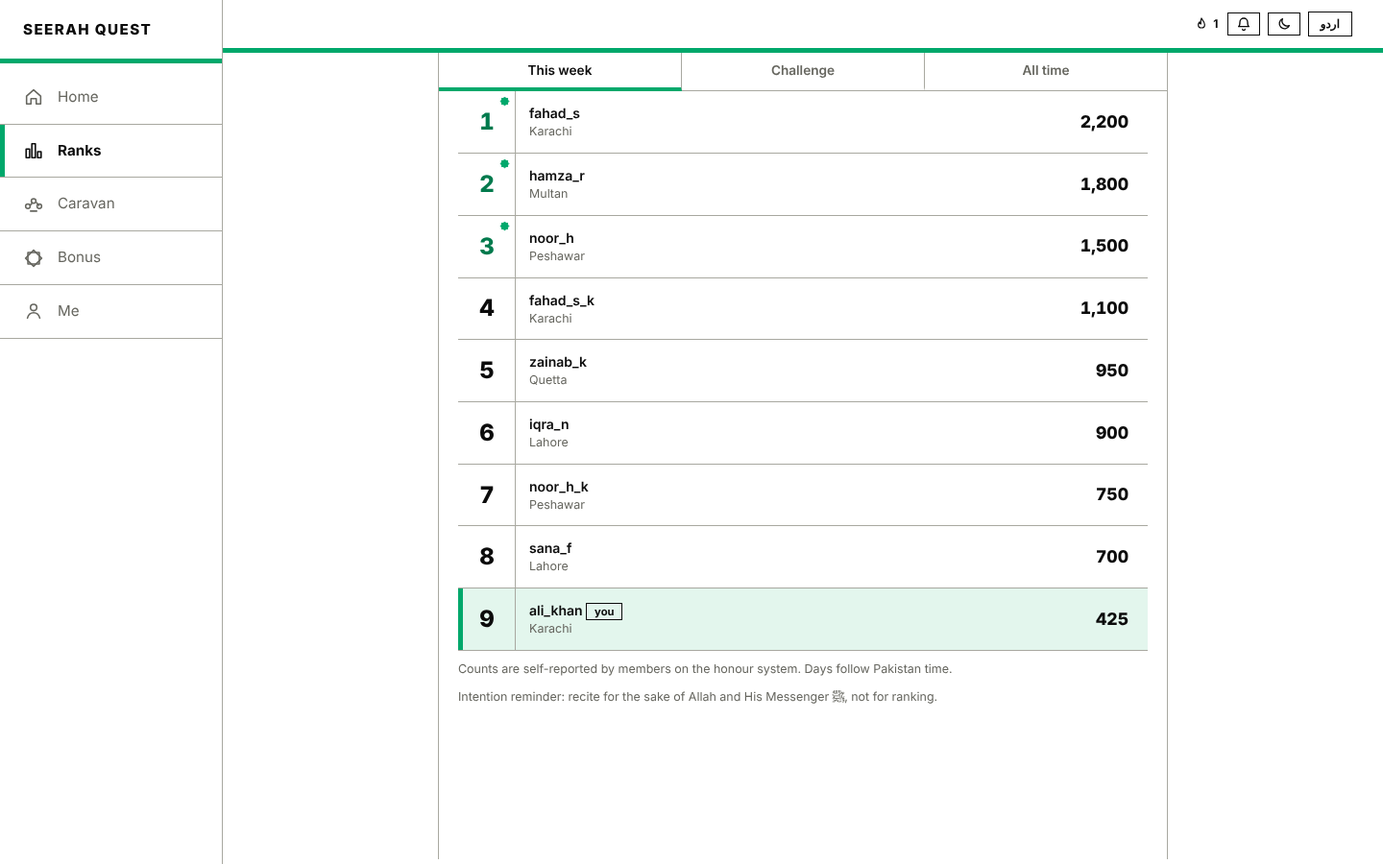
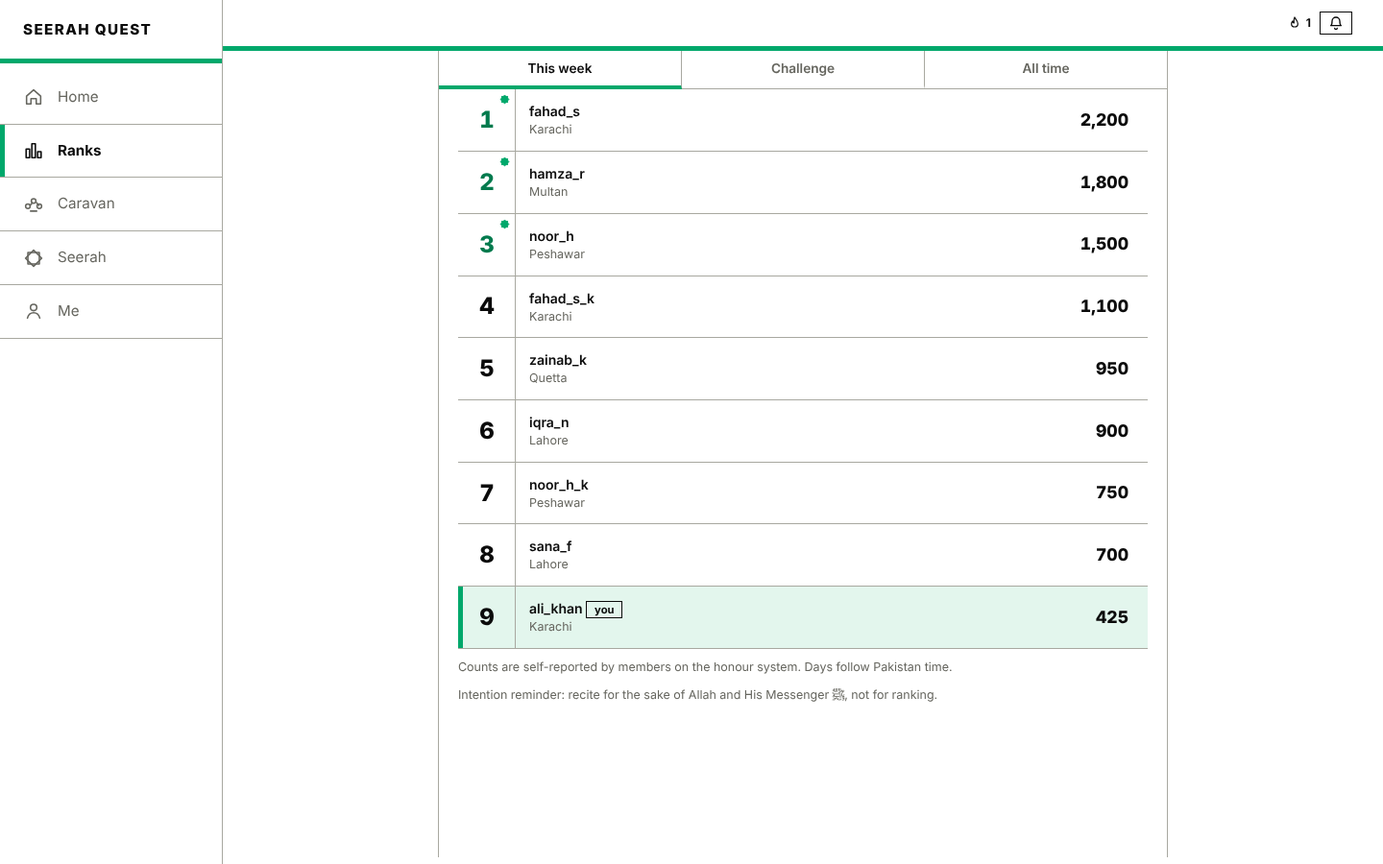
Move language and display toggles to Me; rename Bonus to Seerah; remove design-note wording; fix held-total message
Claude-Session: https://claude.ai/code/session_01UAFZ7UWiNCAUECCSEMQZ74

diff --git a/public/i18n.js b/public/i18n.js
@@ -47,23 +47,24 @@ export const I18N = {
     skip: 'Skip', next: 'Next', start: 'Get started',
     intro1_title: 'Choose your language', intro1_text: 'Seerah Quest helps us send durood on the Prophet ﷺ every day, and grow closer to him through Seerah and Sunnah.',
     intro2_title: 'How counting works', intro2_text: 'After you recite, type the total and press Add. Your number is exact and stays on the record. You can correct today’s and yesterday’s entries from the Me tab.',
-    intro3_title: 'How caravans work', intro3_text: 'Invite people with your code. Everyone you bring, and everyone they bring, becomes your caravan, and you share its milestones. There is no money in Seerah Quest: nothing to pay and nothing to earn but reward and blessing.',
+    intro3_title: 'How caravans work', intro3_text: 'Invite people with your code. Everyone you bring, and everyone they bring, becomes your caravan, and you share its milestones. Seerah Quest is free and never asks you for money.',
     news_title: 'News', news_empty: 'No news yet.',
     push_card_title: 'Daily reminder', push_card_text: 'You have kept a streak going. Want a gentle reminder each day so you do not miss it?', push_enable: 'Turn on reminders', push_later: 'Not now', push_disable: 'Turn off reminders',
     reminder_time: 'Daily reminder time', reminder_hint: 'Pakistan time. Leave empty for no daily reminder. Needs reminders turned on for this device.',
     push_on: 'Reminders are on for this device.', push_off: 'Reminders are off for this device.', push_denied: 'Notifications are blocked in your browser settings.', push_unsupported: 'This browser cannot show reminders. Installing the app on Android usually fixes this.',
     photo_gone: 'The photo was deleted after review, as promised.', logout_all: 'Log out of all devices', logout_all_ask: 'Sign out everywhere else? This device stays signed in.', logout_all_done: 'Signed out of every other device.',
+    appearance: 'Language and display', display: 'Display', mode_light: 'White', mode_dark_name: 'Dark',
     take_photo: 'Take or choose a photo', photo_preview: 'Is this the photo you want to post?', post_it: 'Post for verification', cancel: 'Cancel', posting: 'Posting…',
     photo_rules: 'Photograph the sunnah itself. Please do not show faces, women, children or any personal details. Photos are stripped of location data. Each photo can be used once.',
     post_how: (n) => `Your photo is verified when ${n} different members confirm it. A verified photo earns you more than the tick alone, and reviewers who agree with the final result earn a little too.`,
     your_post: 'Your post today', st_pending: 'Waiting for reviews', st_verified: 'Verified ✓', st_rejected: 'Not verified', st_expired: 'Expired without enough reviews', st_removed: 'Hidden for review',
-    review_title: 'Verify others', review_hint: 'Does the photo genuinely show today’s sunnah being done? Review honestly: you are paid only if your review matches the final result. Votes and names are hidden.',
+    review_title: 'Verify others', review_hint: 'Does the photo genuinely show today’s sunnah being done? Review honestly: you earn points only if your review matches the final result. Votes and names are hidden.',
     confirm: '✓ Yes, it does', reject: '✗ Doesn’t look right', report_btn: '🚩 Report', report_ask: 'Report this photo as inappropriate?',
-    no_feed: 'Nothing to review right now. Thank you!', voted: 'Thank you for reviewing', reviewed_paid: 'Review matched. Points earned', reviewed_pending: 'Recorded. You earn XP if the final result matches your review.',
+    no_feed: 'Nothing to review right now. Thank you!', voted: 'Thank you for reviewing', reviewed_paid: 'Review matched. Points earned', reviewed_pending: 'Recorded. You earn points if the final result matches your review.',
     reported: 'Reported. Thank you.', history: 'My sunnah posts', reviews_done: 'Reviews', sunnahs_verified: 'Sunnahs verified', confirms_so_far: 'confirmations',
     q_sunnah: 'Post today’s sunnah', q_review: 'Review 3 sunnah photos',
-    mode_dark: 'Switch to dark', mode_white: 'Switch to white', goal_word: 'Goal', nav_bonus: 'Bonus', durood_quests: 'Durood quests', bonus_quests: 'Bonus quests', bonus_hint: 'Small extras: today’s sunnah and seerah. Durood always comes first.', see_bonus: 'Open bonus',
-    seerah_heading: 'Seerah', sunnah_heading: 'Sunnah quest', q_weekgoal: 'Reach your goal on all 7 days (weekly total)',
+    mode_dark: 'Switch to dark', mode_white: 'Switch to white', goal_word: 'Goal', nav_bonus: 'Seerah', durood_quests: 'Durood quests', bonus_quests: 'Sunnah and Seerah', bonus_hint: 'Today’s sunnah, the weekly class, Seerah circles and lectures.', see_bonus: 'Open',
+    seerah_heading: 'Seerah', sunnah_heading: 'Sunnah', q_weekgoal: 'Reach your goal on all 7 days (weekly total)',
     invite_code: 'Invite code', invite_hint: 'Required. Use the code of the person who invited you (their username) or a founders code.', invite_ok: 'Code accepted',
     no_code: 'No code?', request_access: 'Request access', waitlist_text: 'Tell us who you are. An organiser will review your request and send you an invite code.',
     name: 'Your name', send_request: 'Send request', wait_done: 'Thank you. We will contact you on the phone number you gave, and by email if you added one.', back_login: 'Back to log in',
@@ -72,7 +73,7 @@ export const I18N = {
     reset_title: 'Choose a new password', new_password: 'New password', reset_done: 'Password changed. You are signed in.', email_confirmed: 'Email confirmed. Thank you.',
     email_unconfirmed: 'Your email is not confirmed yet. We need a working email to reset your password.', resend: 'Send link again', email_sent: 'Link sent', email_ok: 'confirmed',
     hist_title: 'History', hist_hint: 'You can change today’s and yesterday’s entries. Every change stays on record.', yesterday: 'Yesterday', edit: 'Edit', edited: 'edited', was: 'was', hist_empty: 'No entries yet.',
-    flagged: 'Your recent total is being reviewed, so you are hidden from public ranks for now. Your durood still counts everywhere. An organiser will check it soon.',
+    flagged: 'Your recent total is being checked by an organiser. It stays on your record and is added to the public numbers once it is confirmed. Until then you are hidden from the ranks.',
     invites_left: 'Invites left', invites_next: (d) => `You get 10 more for each 7-day streak. Next at a ${d}-day streak.`,
     delete_title: 'Delete account', delete_text: 'Your name, phone number and email are erased. The durood you reported stays in the totals, without your name. This cannot be undone.',
     delete_btn: 'Delete my account', delete_confirm: 'Delete your account for good?', deleted: 'Account deleted', privacy: 'Privacy notice',
@@ -156,23 +157,24 @@ export const I18N = {
     skip: 'چھوڑیں', next: 'آگے', start: 'شروع کریں',
     intro1_title: 'اپنی زبان چنیں', intro1_text: 'سیرت کوئسٹ ہمیں روزانہ نبی ﷺ پر درود بھیجنے اور سیرت و سنت کے ذریعے آپ ﷺ کے قریب ہونے میں مدد دیتا ہے۔',
     intro2_title: 'گنتی کیسے ہوتی ہے', intro2_text: 'درود پڑھ کر کل تعداد لکھیں اور شامل کریں دبائیں۔ آپ کا عدد درست رہتا ہے اور ریکارڈ میں رہتا ہے۔ آج اور کل کے اندراجات “میں” ٹیب سے درست کر سکتے ہیں۔',
-    intro3_title: 'قافلہ کیسے بنتا ہے', intro3_text: 'اپنے کوڈ سے لوگوں کو بلائیں۔ جسے بھی آپ بلائیں اور وہ جسے بلائیں، سب آپ کا قافلہ بنتا ہے اور آپ اس کے سنگِ میل میں شریک ہوتے ہیں۔ سیرت کوئسٹ میں پیسوں کا کوئی لین دین نہیں: نہ ادائیگی، نہ کمائی، صرف اجر اور برکت۔',
+    intro3_title: 'قافلہ کیسے بنتا ہے', intro3_text: 'اپنے کوڈ سے لوگوں کو بلائیں۔ جسے بھی آپ بلائیں اور وہ جسے بلائیں، سب آپ کا قافلہ بنتا ہے اور آپ اس کے سنگِ میل میں شریک ہوتے ہیں۔ سیرت کوئسٹ مفت ہے اور کبھی آپ سے پیسے نہیں مانگتی۔',
     news_title: 'خبریں', news_empty: 'ابھی کوئی خبر نہیں۔',
     push_card_title: 'روزانہ یاد دہانی', push_card_text: 'آپ نے سلسلہ قائم رکھا ہے۔ کیا ہر روز نرمی سے یاد دہانی چاہیں گے تاکہ ناغہ نہ ہو؟', push_enable: 'یاد دہانی چالو کریں', push_later: 'ابھی نہیں', push_disable: 'یاد دہانی بند کریں',
     reminder_time: 'روزانہ یاد دہانی کا وقت', reminder_hint: 'پاکستانی وقت۔ خالی چھوڑیں تو روزانہ یاد دہانی نہیں آئے گی۔ اس کے لیے اس ڈیوائس پر یاد دہانی چالو ہونی چاہیے۔',
     push_on: 'اس ڈیوائس پر یاد دہانی چالو ہے۔', push_off: 'اس ڈیوائس پر یاد دہانی بند ہے۔', push_denied: 'براؤزر کی سیٹنگز میں اطلاعات بلاک ہیں۔', push_unsupported: 'یہ براؤزر یاد دہانی نہیں دکھا سکتا۔ اینڈرائیڈ پر ایپ انسٹال کرنے سے عموماً مسئلہ حل ہو جاتا ہے۔',
     photo_gone: 'جائزے کے بعد تصویر مٹا دی گئی، جیسا کہ وعدہ تھا۔', logout_all: 'تمام ڈیوائسز سے لاگ آؤٹ', logout_all_ask: 'باقی سب جگہ سے لاگ آؤٹ کریں؟ یہ ڈیوائس لاگ اِن رہے گی۔', logout_all_done: 'باقی تمام ڈیوائسز سے لاگ آؤٹ ہو گیا۔',
+    appearance: 'زبان اور ظاہری شکل', display: 'ظاہری شکل', mode_light: 'سفید', mode_dark_name: 'ڈارک',
     take_photo: 'تصویر لیں یا منتخب کریں', photo_preview: 'کیا آپ یہی تصویر پوسٹ کرنا چاہتے ہیں؟', post_it: 'تصدیق کے لیے پوسٹ کریں', cancel: 'منسوخ', posting: 'پوسٹ ہو رہی ہے…',
     photo_rules: 'سنت کی تصویر لیں۔ براہِ کرم چہرے، خواتین، بچے یا ذاتی معلومات نہ دکھائیں۔ تصویر سے مقام کی معلومات ہٹا دی جاتی ہیں۔ ہر تصویر صرف ایک بار استعمال ہو سکتی ہے۔',
     post_how: (n) => `جب ${n} مختلف ارکان آپ کی تصویر کی تصدیق کر دیں تو وہ تصدیق شدہ ہو جاتی ہے۔ تصدیق شدہ تصویر پر صرف ٹک سے زیادہ ملتا ہے، اور حتمی نتیجے سے متفق تصدیق کنندہ کو بھی کچھ ملتا ہے۔`,
     your_post: 'آج کی آپ کی پوسٹ', st_pending: 'تصدیق کا انتظار', st_verified: 'تصدیق شدہ ✓', st_rejected: 'تصدیق نہیں ہوئی', st_expired: 'کافی تصدیقات کے بغیر میعاد ختم', st_removed: 'جائزے کے لیے چھپا دی گئی',
-    review_title: 'دوسروں کی تصدیق کریں', review_hint: 'کیا تصویر واقعی آج کی سنت پر عمل دکھاتی ہے؟ ایمانداری سے جائزہ لیں: انعام صرف اسی صورت ملتا ہے جب آپ کا جائزہ حتمی نتیجے کے مطابق ہو۔ ووٹ اور نام پوشیدہ رہتے ہیں۔',
+    review_title: 'دوسروں کی تصدیق کریں', review_hint: 'کیا تصویر واقعی آج کی سنت پر عمل دکھاتی ہے؟ ایمانداری سے جائزہ لیں: پوائنٹس صرف اسی صورت ملتے ہیں جب آپ کا جائزہ حتمی نتیجے کے مطابق ہو۔ ووٹ اور نام پوشیدہ رہتے ہیں۔',
     confirm: '✓ جی ہاں، درست ہے', reject: '✗ درست نہیں لگتی', report_btn: '🚩 رپورٹ', report_ask: 'کیا اس تصویر کو نامناسب قرار دے کر رپورٹ کریں؟',
-    no_feed: 'ابھی جائزے کے لیے کچھ نہیں۔ شکریہ!', voted: 'جائزے کا شکریہ', reviewed_paid: 'جائزہ نتیجے کے مطابق رہا۔ پوائنٹس ملے', reviewed_pending: 'درج ہو گیا۔ اگر حتمی نتیجہ آپ کے جائزے کے مطابق ہوا تو ایکس پی ملیں گے۔',
+    no_feed: 'ابھی جائزے کے لیے کچھ نہیں۔ شکریہ!', voted: 'جائزے کا شکریہ', reviewed_paid: 'جائزہ نتیجے کے مطابق رہا۔ پوائنٹس ملے', reviewed_pending: 'درج ہو گیا۔ اگر حتمی نتیجہ آپ کے جائزے کے مطابق ہوا تو پوائنٹس ملیں گے۔',
     reported: 'رپورٹ ہو گئی۔ شکریہ۔', history: 'میری سنت پوسٹس', reviews_done: 'جائزے', sunnahs_verified: 'تصدیق شدہ سنتیں', confirms_so_far: 'تصدیقات',
     q_sunnah: 'آج کی سنت پوسٹ کریں', q_review: '3 سنت تصاویر کی تصدیق کریں',
-    mode_dark: 'ڈارک موڈ', mode_white: 'سفید موڈ', goal_word: 'ہدف', nav_bonus: 'اضافی', durood_quests: 'درود کے مشن', bonus_quests: 'اضافی مشن', bonus_hint: 'چھوٹے اضافی کام: آج کی سنت اور سیرت۔ پہلی ترجیح ہمیشہ درود ہے۔', see_bonus: 'اضافی کھولیں',
-    seerah_heading: 'سیرت', sunnah_heading: 'سنت کا مشن', q_weekgoal: 'ہفتے کا ہدف پورا کریں (7 دن کا مجموعہ)',
+    mode_dark: 'ڈارک موڈ', mode_white: 'سفید موڈ', goal_word: 'ہدف', nav_bonus: 'سیرت', durood_quests: 'درود کے مشن', bonus_quests: 'سنت اور سیرت', bonus_hint: 'آج کی سنت، ہفتہ وار کلاس، سیرت سرکل اور لیکچرز۔', see_bonus: 'کھولیں',
+    seerah_heading: 'سیرت', sunnah_heading: 'سنت', q_weekgoal: 'ہفتے کا ہدف پورا کریں (7 دن کا مجموعہ)',
     invite_code: 'دعوتی کوڈ', invite_hint: 'ضروری ہے۔ اپنے دعوت دینے والے کا کوڈ (ان کا یوزرنیم) یا فاؤنڈر کوڈ استعمال کریں۔', invite_ok: 'کوڈ قبول ہو گیا',
     no_code: 'کوڈ نہیں ہے؟', request_access: 'رسائی کی درخواست کریں', waitlist_text: 'اپنا تعارف دیں۔ منتظم آپ کی درخواست دیکھ کر آپ کو دعوتی کوڈ بھیجیں گے۔',
     name: 'آپ کا نام', send_request: 'درخواست بھیجیں', wait_done: 'شکریہ۔ ہم آپ کے دیے ہوئے فون نمبر پر، اور ای میل دی ہو تو ای میل پر رابطہ کریں گے۔', back_login: 'لاگ اِن پر واپس',
@@ -181,7 +183,7 @@ export const I18N = {
     reset_title: 'نیا پاس ورڈ منتخب کریں', new_password: 'نیا پاس ورڈ', reset_done: 'پاس ورڈ بدل گیا۔ آپ لاگ اِن ہیں۔', email_confirmed: 'ای میل کی تصدیق ہو گئی۔ شکریہ۔',
     email_unconfirmed: 'آپ کی ای میل کی تصدیق نہیں ہوئی۔ پاس ورڈ ری سیٹ کے لیے درست ای میل ضروری ہے۔', resend: 'لنک دوبارہ بھیجیں', email_sent: 'لنک بھیج دیا', email_ok: 'تصدیق شدہ',
     hist_title: 'ریکارڈ', hist_hint: 'آپ آج اور کل کے اندراجات بدل سکتے ہیں۔ ہر تبدیلی ریکارڈ میں رہتی ہے۔', yesterday: 'کل', edit: 'ترمیم', edited: 'ترمیم شدہ', was: 'پہلے', hist_empty: 'ابھی کوئی اندراج نہیں۔',
-    flagged: 'آپ کے حالیہ مجموعے کا جائزہ لیا جا رہا ہے، اس لیے فی الحال آپ عوامی رینک میں نظر نہیں آ رہے۔ آپ کا درود پھر بھی ہر جگہ شمار ہو رہا ہے۔ منتظم جلد جانچ لیں گے۔',
+    flagged: 'آپ کے حالیہ مجموعے کی منتظم جانچ کر رہے ہیں۔ یہ آپ کے ریکارڈ میں رہتا ہے اور تصدیق کے بعد عوامی اعداد میں شامل ہو جائے گا۔ تب تک آپ رینک میں نظر نہیں آئیں گے۔',
     invites_left: 'باقی دعوتیں', invites_next: (d) => `ہر 7 دن کے سلسلے پر 10 مزید ملتی ہیں۔ اگلی ${d} دن کے سلسلے پر۔`,
     delete_title: 'اکاؤنٹ حذف کریں', delete_text: 'آپ کا نام، فون نمبر اور ای میل مٹا دیے جاتے ہیں۔ آپ کا پڑھا ہوا درود مجموعوں میں آپ کے نام کے بغیر شامل رہتا ہے۔ یہ عمل واپس نہیں ہو سکتا۔',
     delete_btn: 'میرا اکاؤنٹ حذف کریں', delete_confirm: 'کیا اکاؤنٹ ہمیشہ کے لیے حذف کریں؟', deleted: 'اکاؤنٹ حذف ہو گیا', privacy: 'رازداری کا نوٹس',

diff --git a/public/app.js b/public/app.js
@@ -206,7 +206,7 @@ function authView() {
 function shell() {
   const tabs = ['home', 'rank', 'caravan', 'bonus', 'me'];
   return `
-  <div class="hd"><span>${t('app')}</span><span class="row"><span class="stk" title="${esc(t('streak'))}" aria-label="${S.me.streak} ${esc(t('streak'))}">${uiIcon('flame', 16, 1.8)} ${S.me.streak}</span><button class="pill icon bell" data-act="news" aria-label="${t('news_title')}" title="${t('news_title')}">${ICON_BELL}${S.me.unreadNews ? `<i class="dot">${S.me.unreadNews > 9 ? '9+' : S.me.unreadNews}</i>` : ''}</button>${langToggle()}</span></div>
+  <div class="hd"><span>${t('app')}</span><span class="row"><span class="stk" title="${esc(t('streak'))}" aria-label="${S.me.streak} ${esc(t('streak'))}">${uiIcon('flame', 16, 1.8)} ${S.me.streak}</span><button class="pill icon bell" data-act="news" aria-label="${t('news_title')}" title="${t('news_title')}">${ICON_BELL}${S.me.unreadNews ? `<i class="dot">${S.me.unreadNews > 9 ? '9+' : S.me.unreadNews}</i>` : ''}</button></span></div>
   <div class="wrap tab-${S.tab}">${view()}</div>
   <nav class="tabs"><div class="brand">${t('app')}</div>${tabs.map((k) => `<button class="${S.tab === k ? 'on' : ''}" data-act="tab" data-tab="${k}">${navIcon(k)}<em>${t('nav_' + k)}</em></button>`).join('')}</nav>
   ${S.player ? playerModal() : ''}
@@ -609,10 +609,16 @@ function me() {
     <input type="email" name="email" value="${esc(m.email)}" dir="ltr" required>
     <button class="blk" type="submit"><span>${t('save')}</span><b>→</b></button>
   </form>
+  <h3>${t('appearance')}</h3>
+  <label class="padx">${t('language')}</label>
+  <div class="seg"><button class="${S.lang === 'en' ? 'on' : ''}" data-act="setlang" data-l="en">English</button><button class="${S.lang === 'ur' ? 'on' : ''}" data-act="setlang" data-l="ur">اردو</button></div>
+  <label class="padx">${t('display')}</label>
+  <div class="seg"><button class="${isDark() ? '' : 'on'}" data-act="setmode" data-m="light">${t('mode_light')}</button><button class="${isDark() ? 'on' : ''}" data-act="setmode" data-m="dark">${t('mode_dark_name')}</button></div>
+
   ${pushSupported() ? `<div class="hint" style="margin-top:12px;padding-inline:20px">${Notification.permission === 'granted' ? t('push_on') : Notification.permission === 'denied' ? t('push_denied') : t('push_off')}</div>
   <div class="row" style="padding-inline:20px">${Notification.permission === 'granted' ? `<button class="chip" data-act="pushoff">${t('push_disable')}</button>` : Notification.permission === 'denied' ? '' : `<button class="chip solid" data-act="pushon">${t('push_enable')}</button>`}</div>` : `<div class="hint" style="margin-top:12px">${t('push_unsupported')}</div>`}
   <button class="blk out" data-act="logout" style="margin-top:12px"><span>${t('logout')}</span></button>
-  <button class="linkbtn" data-act="logoutall" style="margin-top:8px">${t('logout_all')}</button>
+  <button class="linkbtn padx" data-act="logoutall" style="margin-top:8px">${t('logout_all')}</button>
 
   <h3>${t('delete_title')}</h3>
   <form data-form="delete">
@@ -774,7 +780,12 @@ app.addEventListener('click', async (ev) => {
     }
     return draw();
   }
-  if (act === 'setlang') { S.lang = el.dataset.l; ls.set('lang', S.lang); return draw(); }
+  if (act === 'setlang') {
+    S.lang = el.dataset.l; ls.set('lang', S.lang);
+    if (S.me) { S.me.lang = S.lang; api('/me', 'PATCH', { lang: S.lang }).catch(() => {}); }
+    return draw();
+  }
+  if (act === 'setmode') { document.documentElement.setAttribute('data-mode', el.dataset.m); ls.set('mode', el.dataset.m); return draw(); }
   if (act === 'intronext') { if (S.intro >= 2) { S.intro = null; ls.set('intro', '1'); } else S.intro += 1; return draw(); }
   if (act === 'introskip') { S.intro = null; ls.set('intro', '1'); return draw(); }
   if (act === 'news') return enterTab('news');

diff --git a/public/style.css b/public/style.css
@@ -332,3 +332,4 @@ html[lang=ur] .ctitle { letter-spacing: 0; }
 }
 @media (min-width: 1600px) { body.in-app { --side: 260px; } }
 .numbox label { padding-inline: 20px; }
+.padx { padding-inline: 20px; }

diff --git a/docs/SPEC.md b/docs/SPEC.md
@@ -149,3 +149,8 @@ Home: number box first (type a total, presets +100/+500/+1,000 fill the field, A
 - **Data safety:** nightly `VACUUM INTO` backups (`BACKUP_DIR`), photo files deleted 14 days after review and at once on account deletion (the post record, votes and payouts stay), the scheduler never overlaps itself.
 - **Production guard:** with `NODE_ENV=production` the server refuses to start without a real mail provider, a 24+ character admin key and `AUTH_SECRET`.
 - **Not done (and why):** phone verification needs an SMS provider; the performance fixes (running challenge total, cached boards, off-peak audit) are the next batch, needed before about 5,000 members.
+
+## 14. Wording and placement (from QA feedback)
+- The fifth tab is **Seerah** (it was labelled "Bonus", an internal word nobody uses). It holds today's Sunnah, the weekly class, the Seerat Circle and lectures. On Home the section is "Sunnah and Seerah".
+- **Language and display (white/dark) live in Me**, under "Language and display". The header keeps only the streak and the news bell. The sign-in and intro screens keep their own language switch because there is no account yet.
+- **No design notes in the app's wording.** Statements such as "durood always comes first" are decisions about how the app works, not copy for members. Review all new text for this before it ships.
